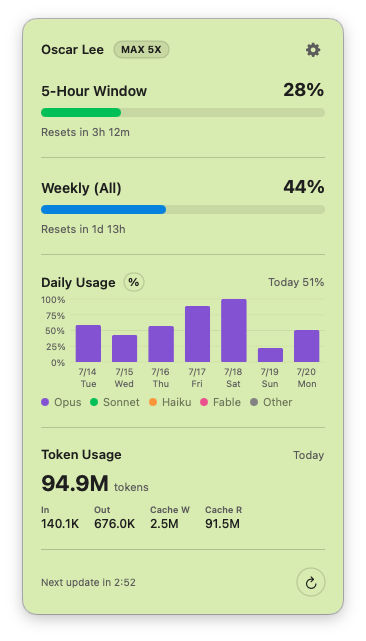
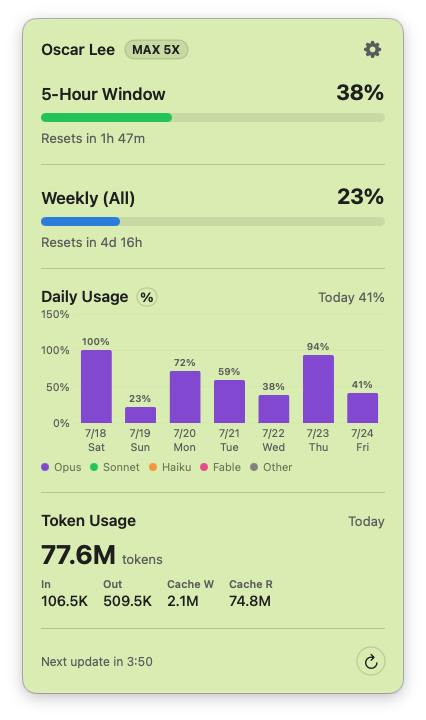
feat(ui): larger popover, per-bar % labels, taller daily chart
- Annotate each daily bar with its total % (or $) on top
- Widen popover 320->380 and scale all fonts 1.2x for readability
- Raise daily chart height 110->160
- Bump version to 0.2.5; commit the stable-signing/icon build-app.sh
  changes that were left uncommitted; refresh README demo screenshot

diff --git a/Sources/ClaudeBar/PopoverView.swift b/Sources/ClaudeBar/PopoverView.swift
@@ -2,7 +2,7 @@ import SwiftUI
 
 // MARK: - Style (ref: Blimp-Labs/claude-usage-bar demo)
 private enum Style {
-    static let width: CGFloat = 320
+    static let width: CGFloat = 380
     static let pad: CGFloat = 18
     static let bg = Color(red: 0.871, green: 0.933, blue: 0.714)
     static let track = Color.black.opacity(0.08)
@@ -90,23 +90,23 @@ struct PopoverView: View {
         HStack(spacing: 9) {
             if svc.isAuthed {
                 Text(appearance.displayName(fallback: svc.fullName ?? svc.email))
-                    .font(.system(size: 13, weight: .semibold)).foregroundColor(Style.ink)
+                    .font(.system(size: 15.6, weight: .semibold)).foregroundColor(Style.ink)
                     .lineLimit(1).truncationMode(.middle)
                 if let plan = svc.plan {
                     Text(plan.uppercased())
-                        .font(.system(size: 10, weight: .bold)).foregroundColor(Style.ink)
+                        .font(.system(size: 12, weight: .bold)).foregroundColor(Style.ink)
                         .padding(.horizontal, 7).padding(.vertical, 2)
                         .background(Capsule().fill(Color.black.opacity(0.08)))
                         .overlay(Capsule().stroke(Style.border, lineWidth: 1))
                 }
             } else {
                 Text("ClaudeBar")
-                    .font(.system(size: 13, weight: .semibold)).foregroundColor(Style.ink)
+                    .font(.system(size: 15.6, weight: .semibold)).foregroundColor(Style.ink)
             }
             Spacer(minLength: 6)
             Button { showingSettings = true } label: {
                 Image(systemName: "gearshape.fill")
-                    .font(.system(size: 14)).foregroundColor(Style.sub)
+                    .font(.system(size: 16.8)).foregroundColor(Style.sub)
                     .frame(width: 24, height: 24)
                     .contentShape(Rectangle())
             }.buttonStyle(.plain).help("Settings")
@@ -116,12 +116,12 @@ struct PopoverView: View {
     private var footer: some View {
         HStack(spacing: 8) {
             if updater.checking {
-                Text("Checking for updates…").font(.system(size: 10)).foregroundColor(Style.sub)
+                Text("Checking for updates…").font(.system(size: 12)).foregroundColor(Style.sub)
             } else if let note = updater.statusNote {
-                Text(note).font(.system(size: 10)).foregroundColor(Style.sub).lineLimit(1)
+                Text(note).font(.system(size: 12)).foregroundColor(Style.sub).lineLimit(1)
             } else if let next = svc.nextUpdate {
                 TimelineView(.periodic(from: Date(), by: 1)) { _ in
-                    Text(countdown(next)).font(.system(size: 10)).foregroundColor(Style.sub)
+                    Text(countdown(next)).font(.system(size: 12)).foregroundColor(Style.sub)
                 }
             }
             Spacer()
@@ -136,17 +136,17 @@ struct PopoverView: View {
     private func updateBanner(_ tag: String) -> some View {
         HStack(spacing: 8) {
             Image(systemName: "arrow.down.circle.fill")
-                .font(.system(size: 13)).foregroundColor(Style.ink)
+                .font(.system(size: 15.6)).foregroundColor(Style.ink)
             VStack(alignment: .leading, spacing: 1) {
-                Text("New version \(tag)").font(.system(size: 11, weight: .semibold)).foregroundColor(Style.ink)
-                Text("Current v\(Updater.current)").font(.system(size: 9)).foregroundColor(Style.sub)
+                Text("New version \(tag)").font(.system(size: 13.2, weight: .semibold)).foregroundColor(Style.ink)
+                Text("Current v\(Updater.current)").font(.system(size: 10.8)).foregroundColor(Style.sub)
             }
             Spacer()
             if updater.installing {
                 ProgressView().controlSize(.small)
             } else {
                 Button { Task { await updater.installAndRelaunch() } } label: {
-                    Text("Update").font(.system(size: 11, weight: .semibold)).foregroundColor(.white)
+                    Text("Update").font(.system(size: 13.2, weight: .semibold)).foregroundColor(.white)
                         .padding(.horizontal, 12).padding(.vertical, 5)
                         .background(Capsule().fill(Style.ink))
                 }.buttonStyle(.plain)
@@ -156,7 +156,7 @@ struct PopoverView: View {
         .background(RoundedRectangle(cornerRadius: 10).fill(Color.black.opacity(0.06)))
         .overlay(alignment: .bottomLeading) {
             if let e = updater.error {
-                Text(e).font(.system(size: 9)).foregroundColor(.red).padding(.leading, 4).offset(y: 14)
+                Text(e).font(.system(size: 10.8)).foregroundColor(.red).padding(.leading, 4).offset(y: 14)
             }
         }
     }
@@ -164,7 +164,7 @@ struct PopoverView: View {
     private func iconButton(_ systemName: String, help: String, action: @escaping () -> Void) -> some View {
         Button(action: action) {
             Image(systemName: systemName)
-                .font(.system(size: 12, weight: .medium)).foregroundColor(Style.ink)
+                .font(.system(size: 14.4, weight: .medium)).foregroundColor(Style.ink)
                 .frame(width: 28, height: 28)
                 .background(Circle().stroke(Style.border, lineWidth: 1))
         }
@@ -194,12 +194,12 @@ private struct SettingsPanel: View {
             HStack(spacing: 6) {
                 Button(action: onBack) {
                     Image(systemName: "chevron.left")
-                        .font(.system(size: 14, weight: .semibold)).foregroundColor(Style.ink)
+                        .font(.system(size: 16.8, weight: .semibold)).foregroundColor(Style.ink)
                         .frame(width: 26, height: 26)
                         .background(Circle().fill(Color.black.opacity(0.05)))
                         .contentShape(Circle())
                 }.buttonStyle(.plain).help("Back")
-                Text("Settings").font(.system(size: 15, weight: .semibold)).foregroundColor(Style.ink)
+                Text("Settings").font(.system(size: 18, weight: .semibold)).foregroundColor(Style.ink)
                 Spacer()
             }
 
@@ -222,11 +222,11 @@ private struct SettingsPanel: View {
                         TextField(svc.fullName ?? svc.email ?? "Display name",
                                   text: $appearance.customName)
                             .textFieldStyle(.plain)
-                            .font(.system(size: 12.5)).foregroundColor(Style.ink)
+                            .font(.system(size: 15)).foregroundColor(Style.ink)
                         if !appearance.customName.isEmpty {
                             Button { appearance.customName = "" } label: {
                                 Image(systemName: "xmark.circle.fill")
-                                    .font(.system(size: 12)).foregroundColor(Style.sub.opacity(0.7))
+                                    .font(.system(size: 14.4)).foregroundColor(Style.sub.opacity(0.7))
                             }.buttonStyle(.plain).help("Reset name")
                         }
                     }.rowPadding()
@@ -236,7 +236,7 @@ private struct SettingsPanel: View {
             section("GENERAL") {
                 HStack(spacing: 10) {
                     icon("power.circle")
-                    Text("Launch at Login").font(.system(size: 12.5)).foregroundColor(Style.ink)
+                    Text("Launch at Login").font(.system(size: 15)).foregroundColor(Style.ink)
                     Spacer()
                     Toggle("", isOn: Binding(get: { svc.launchAtLogin },
                                              set: { svc.setLaunchAtLogin($0) }))
@@ -247,9 +247,9 @@ private struct SettingsPanel: View {
             section("ABOUT") {
                 HStack(spacing: 10) {
                     icon("info.circle")
-                    Text("ClaudeBar").font(.system(size: 12.5, weight: .medium)).foregroundColor(Style.ink)
+                    Text("ClaudeBar").font(.system(size: 15, weight: .medium)).foregroundColor(Style.ink)
                     Spacer()
-                    Text("v\(Updater.current)").font(.system(size: 11.5)).foregroundColor(Style.sub)
+                    Text("v\(Updater.current)").font(.system(size: 13.8)).foregroundColor(Style.sub)
                 }.rowPadding()
                 rowDivider
                 actionRow("Check for Updates", icon: "arrow.down.circle",
@@ -266,7 +266,7 @@ private struct SettingsPanel: View {
             }
 
             if let e = updater.error {
-                Text(e).font(.system(size: 10)).foregroundColor(.red).lineLimit(2)
+                Text(e).font(.system(size: 12)).foregroundColor(.red).lineLimit(2)
                     .padding(.horizontal, 4)
             }
 
@@ -281,17 +281,17 @@ private struct SettingsPanel: View {
         HStack(spacing: 10) {
             VStack(alignment: .leading, spacing: 2) {
                 Text(appearance.displayName(fallback: svc.fullName ?? svc.email))
-                    .font(.system(size: 13, weight: .semibold)).foregroundColor(Style.ink)
+                    .font(.system(size: 15.6, weight: .semibold)).foregroundColor(Style.ink)
                     .lineLimit(1).truncationMode(.middle)
                 if let email = svc.email, email != svc.fullName {
-                    Text(email).font(.system(size: 10.5)).foregroundColor(Style.sub)
+                    Text(email).font(.system(size: 12.6)).foregroundColor(Style.sub)
                         .lineLimit(1).truncationMode(.middle)
                 }
             }
             Spacer(minLength: 6)
             if let plan = svc.plan {
                 Text(plan.uppercased())
-                    .font(.system(size: 10, weight: .bold)).foregroundColor(Style.ink)
+                    .font(.system(size: 12, weight: .bold)).foregroundColor(Style.ink)
                     .padding(.horizontal, 8).padding(.vertical, 3)
                     .background(Capsule().fill(Color.black.opacity(0.07)))
                     .overlay(Capsule().stroke(Style.border, lineWidth: 1))
@@ -311,15 +311,15 @@ private struct SettingsPanel: View {
                          trailing: String? = nil, showChevron: Bool = false) -> some View {
         HStack(spacing: 10) {
             icon(iconName, tint: tint)
-            Text(title).font(.system(size: 12.5)).foregroundColor(tint)
+            Text(title).font(.system(size: 15)).foregroundColor(tint)
             Spacer()
             if let trailing {
-                Text(trailing).font(.system(size: 10.5)).foregroundColor(Style.sub)
+                Text(trailing).font(.system(size: 12.6)).foregroundColor(Style.sub)
                     .lineLimit(1)
             }
             if showChevron {
                 Image(systemName: "chevron.right")
-                    .font(.system(size: 10, weight: .semibold)).foregroundColor(Style.sub.opacity(0.7))
+                    .font(.system(size: 12, weight: .semibold)).foregroundColor(Style.sub.opacity(0.7))
             }
         }
         .rowPadding()
@@ -327,7 +327,7 @@ private struct SettingsPanel: View {
     }
 
     private func icon(_ name: String, tint: Color = Style.ink) -> some View {
-        Image(systemName: name).font(.system(size: 13)).foregroundColor(tint)
+        Image(systemName: name).font(.system(size: 15.6)).foregroundColor(tint)
             .frame(width: 18, alignment: .center)
     }
 
@@ -345,7 +345,7 @@ private struct SettingsPanel: View {
     private func section<Content: View>(_ title: String,
                                         @ViewBuilder _ content: () -> Content) -> some View {
         VStack(alignment: .leading, spacing: 6) {
-            Text(title).font(.system(size: 9.5, weight: .bold)).foregroundColor(Style.sub)
+            Text(title).font(.system(size: 11.4, weight: .bold)).foregroundColor(Style.sub)
                 .tracking(0.6).padding(.leading, 4)
             VStack(spacing: 0) { content() }.background(card)
         }
@@ -367,34 +367,34 @@ private struct SignInSection: View {
         VStack(alignment: .leading, spacing: 10) {
             if svc.awaitingCode {
                 Text("After authorizing in the browser, paste the code here")
-                    .font(.system(size: 11)).foregroundColor(Style.sub)
+                    .font(.system(size: 13.2)).foregroundColor(Style.sub)
                 TextField("code#state", text: $code)
-                    .textFieldStyle(.roundedBorder).font(.system(size: 12))
+                    .textFieldStyle(.roundedBorder).font(.system(size: 14.4))
                 HStack(spacing: 8) {
                     primary("Submit") { let c = code; code = ""; Task { await svc.submitCode(c) } }
                     secondary("Re-authorize") { code = ""; svc.startSignIn() }
                     secondary("Cancel") { code = ""; svc.cancelSignIn() }
                 }
             } else {
-                Text("Not signed in").font(.system(size: 12)).foregroundColor(Style.sub)
+                Text("Not signed in").font(.system(size: 14.4)).foregroundColor(Style.sub)
                 primary("Sign in with Claude") { svc.startSignIn() }
             }
             if let e = svc.errorText {
-                Text(e).font(.system(size: 10)).foregroundColor(.red).lineLimit(3)
+                Text(e).font(.system(size: 12)).foregroundColor(.red).lineLimit(3)
             }
         }
     }
 
     private func primary(_ t: String, action: @escaping () -> Void) -> some View {
         Button(action: action) {
-            Text(t).font(.system(size: 12, weight: .semibold)).foregroundColor(.white)
+            Text(t).font(.system(size: 14.4, weight: .semibold)).foregroundColor(.white)
                 .padding(.horizontal, 14).padding(.vertical, 7)
                 .background(Capsule().fill(Style.ink))
         }.buttonStyle(.plain)
     }
     private func secondary(_ t: String, action: @escaping () -> Void) -> some View {
         Button(action: action) {
-            Text(t).font(.system(size: 12)).foregroundColor(Style.ink)
+            Text(t).font(.system(size: 14.4)).foregroundColor(Style.ink)
                 .padding(.horizontal, 12).padding(.vertical, 7)
                 .background(Capsule().stroke(Style.border, lineWidth: 1))
         }.buttonStyle(.plain)
@@ -427,7 +427,7 @@ private struct UsageSection: View {
                 TokenUsageRow(today: today)
             }
             if let e = svc.errorText {
-                Text(e).font(.system(size: 10)).foregroundColor(.red)
+                Text(e).font(.system(size: 12)).foregroundColor(.red)
             }
         }
     }
@@ -441,14 +441,14 @@ private struct TokenUsageRow: View {
     var body: some View {
         VStack(alignment: .leading, spacing: 8) {
             HStack(alignment: .firstTextBaseline) {
-                Text("Token Usage").font(.system(size: 13, weight: .semibold)).foregroundColor(Style.ink)
+                Text("Token Usage").font(.system(size: 15.6, weight: .semibold)).foregroundColor(Style.ink)
                 Spacer()
-                Text("Today").font(.system(size: 11)).foregroundColor(Style.sub)
+                Text("Today").font(.system(size: 13.2)).foregroundColor(Style.sub)
             }
             HStack(alignment: .firstTextBaseline, spacing: 5) {
                 Text(Self.fmt(today.tokens.total))
-                    .font(.system(size: 22, weight: .bold)).foregroundColor(Style.ink)
-                Text("tokens").font(.system(size: 11)).foregroundColor(Style.sub)
+                    .font(.system(size: 26.4, weight: .bold)).foregroundColor(Style.ink)
+                Text("tokens").font(.system(size: 13.2)).foregroundColor(Style.sub)
             }
             HStack(spacing: 14) {
                 stat("In", today.tokens.input)
@@ -461,8 +461,8 @@ private struct TokenUsageRow: View {
 
     private func stat(_ label: String, _ n: Int) -> some View {
         VStack(alignment: .leading, spacing: 1) {
-            Text(label).font(.system(size: 9, weight: .semibold)).foregroundColor(Style.sub)
-            Text(Self.fmt(n)).font(.system(size: 12, weight: .medium)).foregroundColor(Style.ink)
+            Text(label).font(.system(size: 10.8, weight: .semibold)).foregroundColor(Style.sub)
+            Text(Self.fmt(n)).font(.system(size: 14.4, weight: .medium)).foregroundColor(Style.ink)
         }
     }
 
@@ -483,13 +483,13 @@ private struct WindowRow: View {
     var body: some View {
         VStack(alignment: .leading, spacing: 8) {
             HStack(alignment: .firstTextBaseline) {
-                Text(title).font(.system(size: 14, weight: .semibold)).foregroundColor(Style.ink)
+                Text(title).font(.system(size: 16.8, weight: .semibold)).foregroundColor(Style.ink)
                 Spacer()
                 Text(bucket?.utilization == nil ? "—" : String(format: "%.0f%%", bucket!.utilization!))
-                    .font(.system(size: 18, weight: .bold)).foregroundColor(Style.ink)
+                    .font(.system(size: 21.6, weight: .bold)).foregroundColor(Style.ink)
             }
             CapsuleBar(value: bucket?.fraction ?? 0, tint: tint)
-            Text(resetVerbose(bucket?.resetDate)).font(.system(size: 11)).foregroundColor(Style.sub)
+            Text(resetVerbose(bucket?.resetDate)).font(.system(size: 13.2)).foregroundColor(Style.sub)
         }
     }
 }

diff --git a/Sources/ClaudeBar/DailyChartView.swift b/Sources/ClaudeBar/DailyChartView.swift
@@ -41,21 +41,35 @@ struct DailyChartView: View {
             ? String(format: "Today %.0f%%", maxCost > 0 ? t.cost / maxCost * 100 : 0)
             : String(format: "Today $%.0f", t.cost)
     }
+    /// 當日堆疊總量標籤（掛在最頂端 segment 上）。
+    private func totalLabel(_ d: DayCost) -> String {
+        guard d.cost > 0 else { return "" }
+        return percent
+            ? String(format: "%.0f%%", maxCost > 0 ? d.cost / maxCost * 100 : 0)
+            : String(format: "$%.0f", d.cost)
+    }
 
     var body: some View {
         VStack(alignment: .leading, spacing: 8) {
             HStack(spacing: 8) {
-                Text("Daily Usage").font(.system(size: 13, weight: .semibold)).foregroundColor(ink)
+                Text("Daily Usage").font(.system(size: 15.6, weight: .semibold)).foregroundColor(ink)
                 toggle
                 Spacer()
-                Text(todayText).font(.system(size: 11)).foregroundColor(sub)
+                Text(todayText).font(.system(size: 13.2)).foregroundColor(sub)
             }
             Chart {
                 ForEach(days) { d in
-                    ForEach(families, id: \.self) { fam in
+                    ForEach(Array(families.enumerated()), id: \.element) { idx, fam in
                         BarMark(x: .value("日期", d.label), y: .value("用量", yValue(d, fam)))
                             .foregroundStyle(by: .value("Model", fam))
                             .cornerRadius(2)
+                            .annotation(position: .top, spacing: 2) {
+                                if idx == families.count - 1 {
+                                    Text(totalLabel(d))
+                                        .font(.system(size: 9.6, weight: .semibold))
+                                        .foregroundColor(sub)
+                                }
+                            }
                     }
                 }
             }
@@ -67,7 +81,7 @@ struct DailyChartView: View {
                     AxisValueLabel {
                         if let v = value.as(Double.self) {
                             Text(percent ? "\(Int(v))%" : "$\(Int(v))")
-                                .font(.system(size: 9)).foregroundColor(sub)
+                                .font(.system(size: 10.8)).foregroundColor(sub)
                         }
                     }
                 }
@@ -77,21 +91,21 @@ struct DailyChartView: View {
                     AxisValueLabel {
                         if let s = value.as(String.self) {
                             VStack(spacing: 1) {
-                                Text(s).font(.system(size: 9)).foregroundColor(sub)
-                                Text(weekdayByLabel[s] ?? "").font(.system(size: 9)).foregroundColor(sub)
+                                Text(s).font(.system(size: 10.8)).foregroundColor(sub)
+                                Text(weekdayByLabel[s] ?? "").font(.system(size: 10.8)).foregroundColor(sub)
                             }
                         }
                     }
                 }
             }
-            .frame(height: 110)
+            .frame(height: 160)
         }
     }
 
     private var toggle: some View {
         Button { percent.toggle() } label: {
             Text(percent ? "%" : "$")
-                .font(.system(size: 11, weight: .bold)).foregroundColor(ink)
+                .font(.system(size: 13.2, weight: .bold)).foregroundColor(ink)
                 .frame(width: 20, height: 18)
                 .background(Capsule().stroke(Color.black.opacity(0.18), lineWidth: 1))
         }.buttonStyle(.plain)
